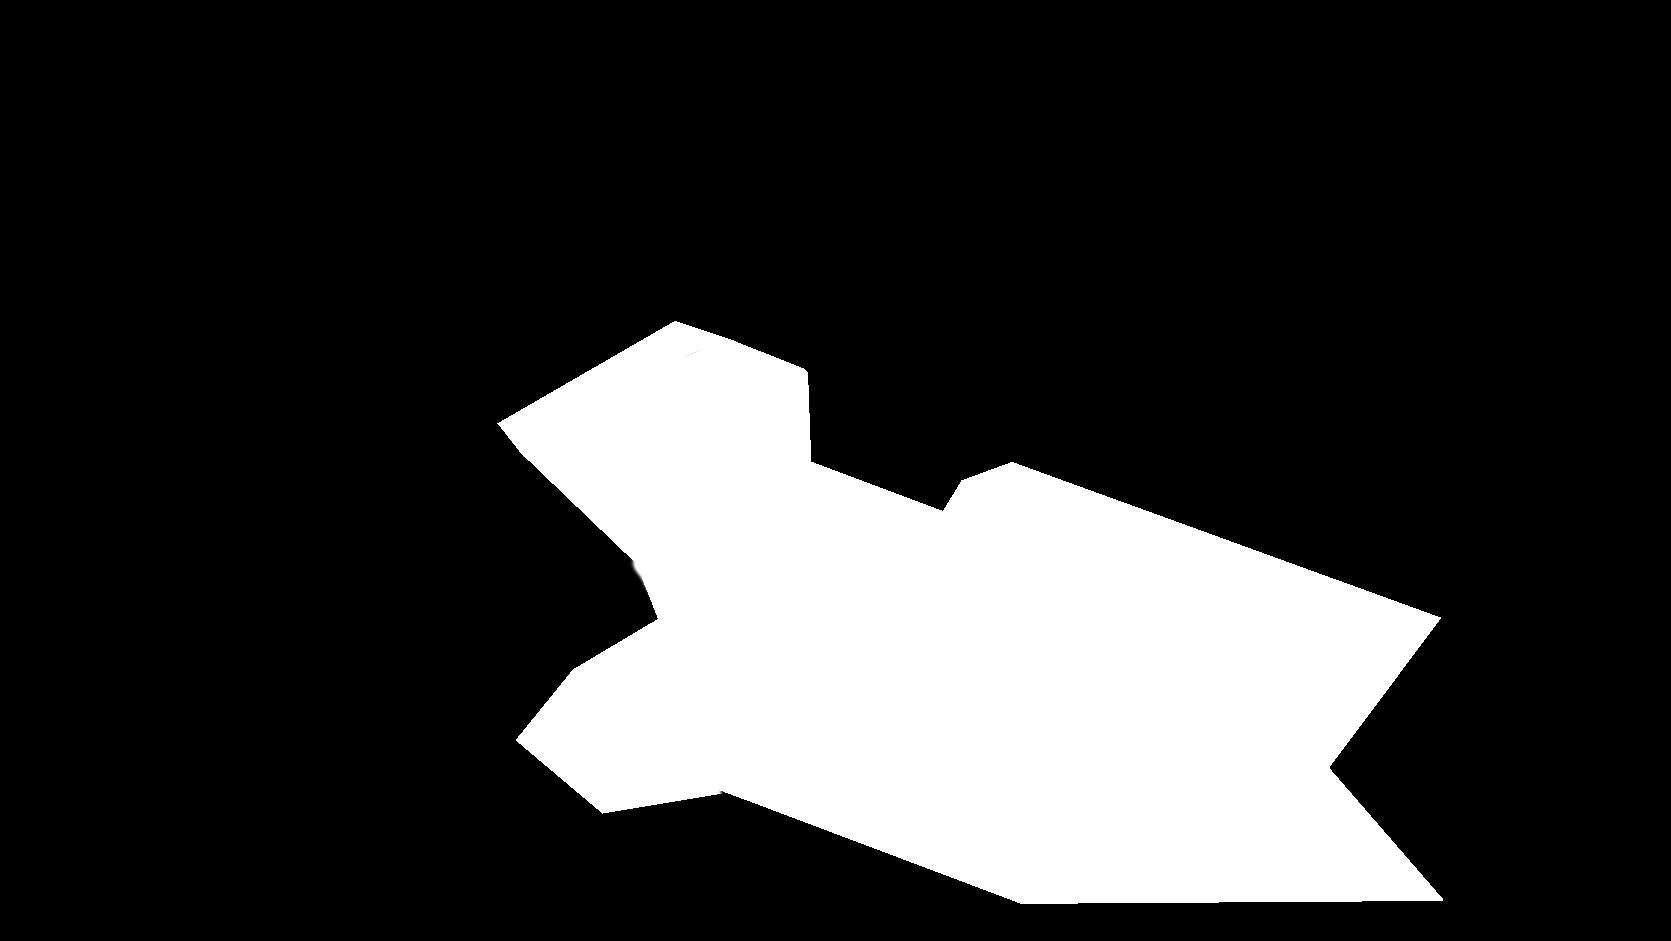
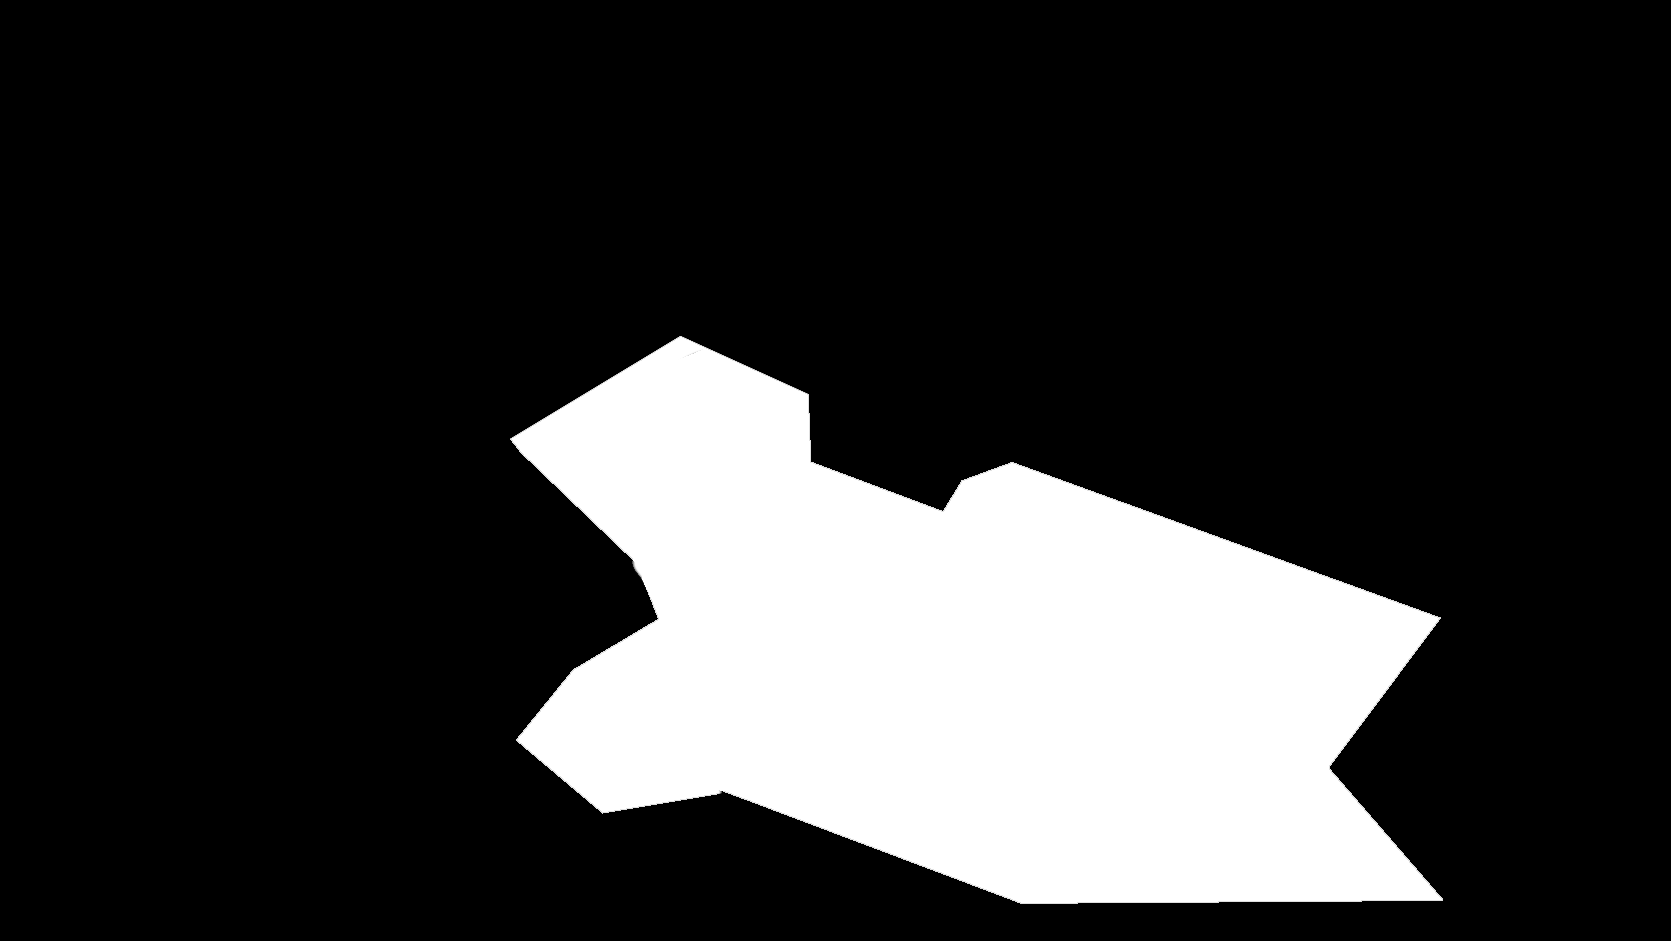
refactor

Changed region(s): [[0.2801, 0.339, 0.4357, 0.4623], [0.4357, 0.3698, 0.4979, 0.4315]]

diff --git a/docs/player-movement.md b/docs/player-movement.md
@@ -7,4 +7,6 @@
 - `move_area_asset`: ماسک سفیدِ مسیرهای قابلحرکت، هماندازه با پسزمینه.
 - `player`: موقعیت، اندازه، سرعت، داراییهای اسپرایت و تنظیم اختیاری `ground_contact_offset_y`.
 
+برای بازبینی مسیر حرکت، میتوان در تنظیم نمای محیطِ `views` مقدار `show_move_area_mask: true` گذاشت. این ماسک با شفافیت ۵۰٪ فقط روی نمای اتاق نمایش داده میشود و بر منطق حرکت اثری ندارد.
+
 برای مرحلهٔ جدید، همین دو بخش را در JSON آن مرحله وارد کنید. نیازی به کپیکردن هیچکدام از کدهای حرکت یا انیمیشن نیست.
